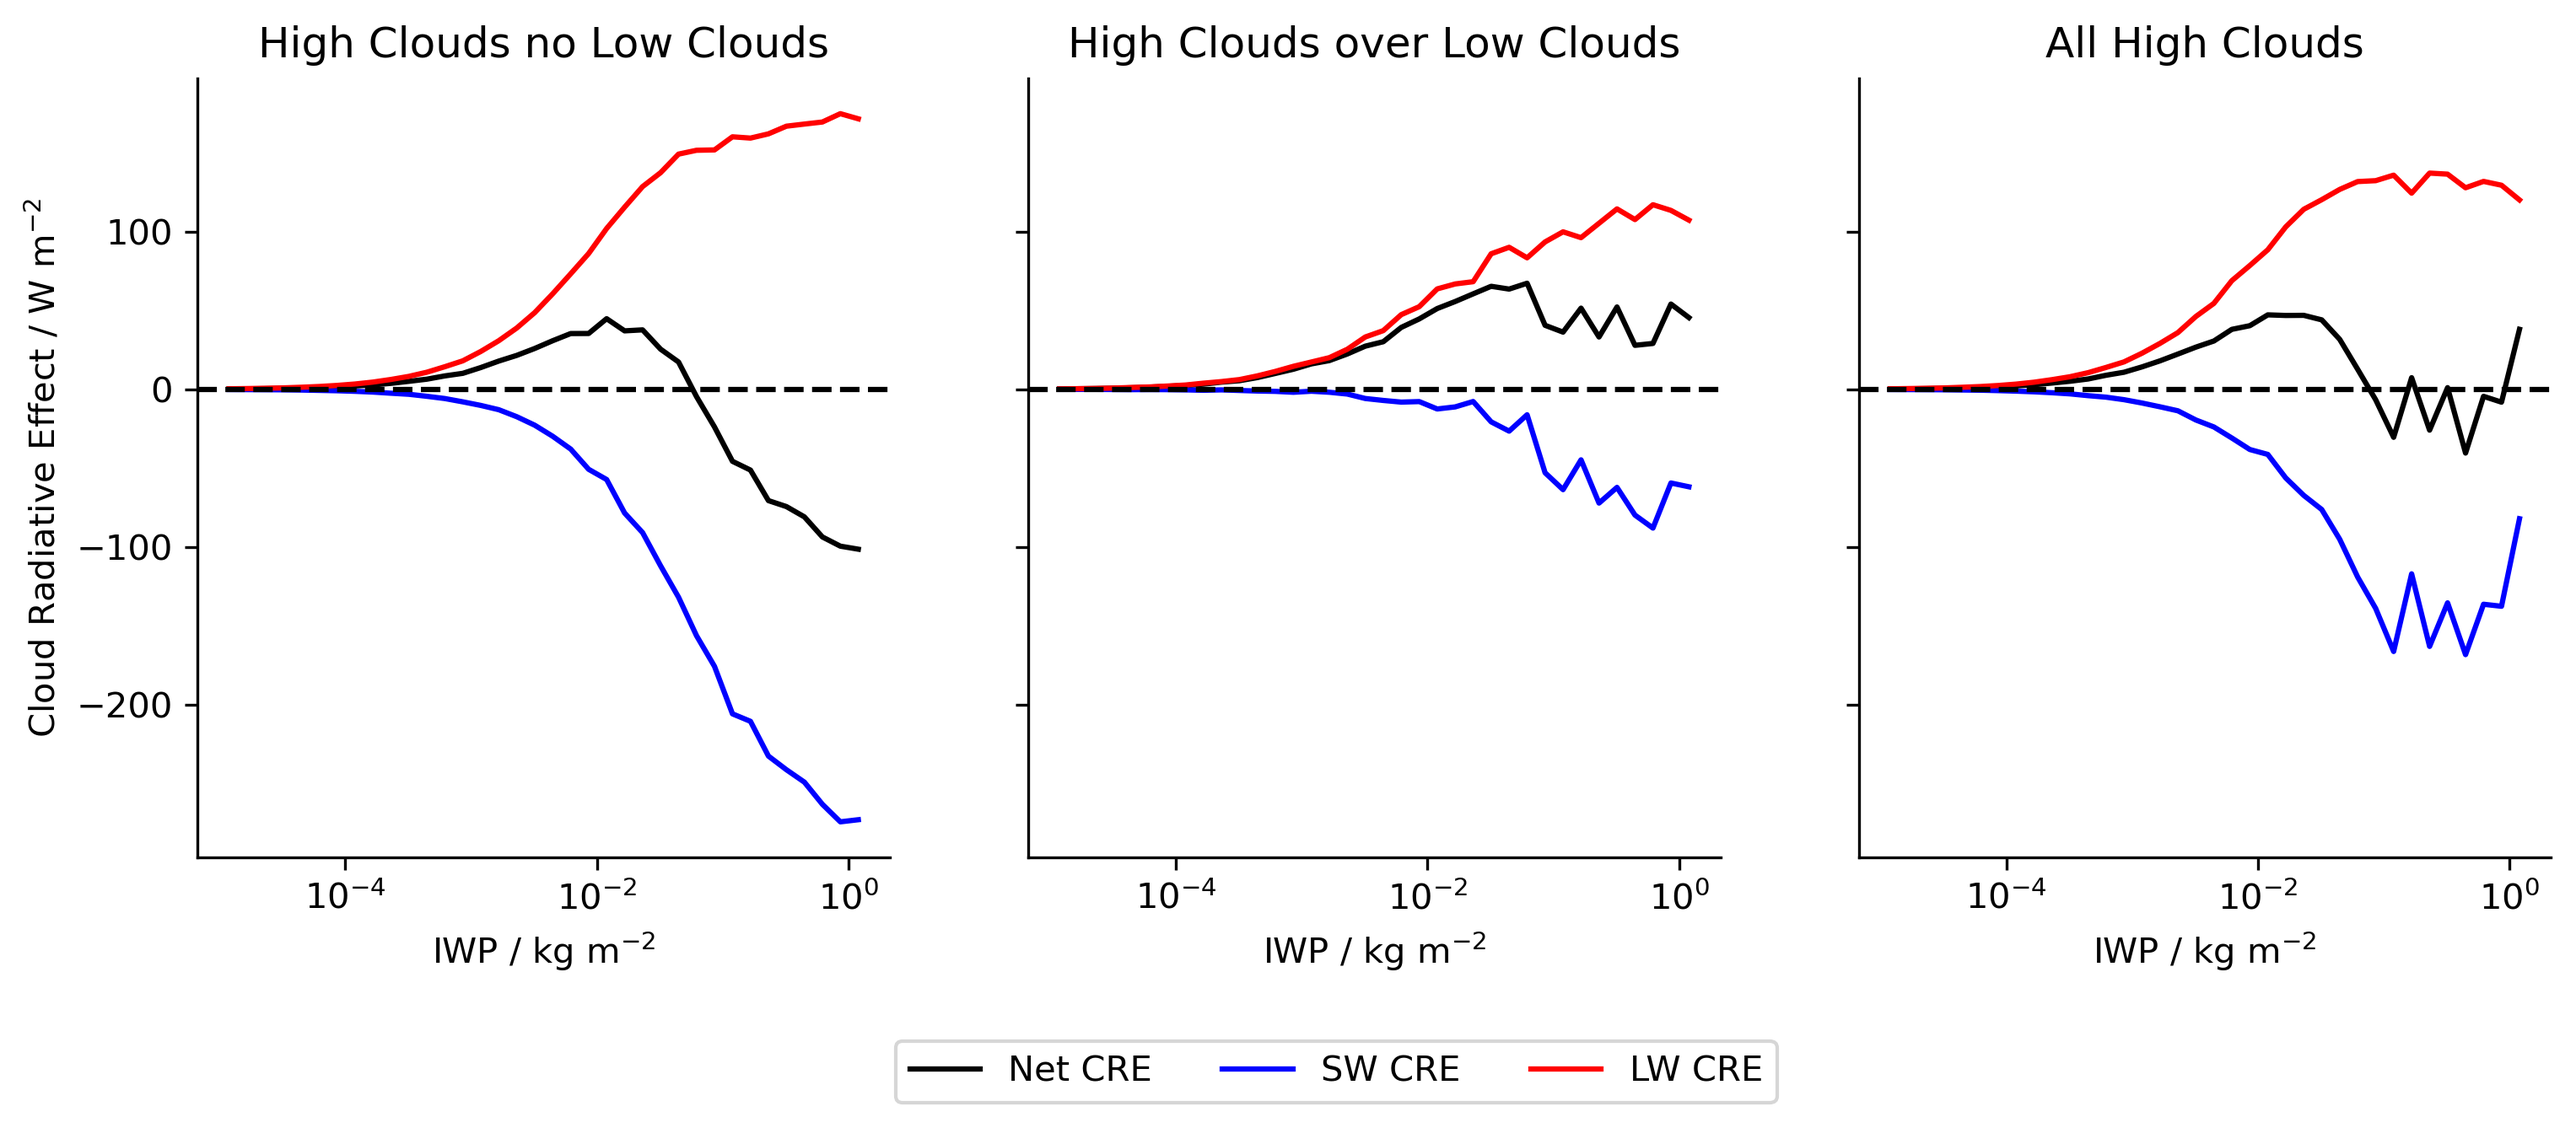
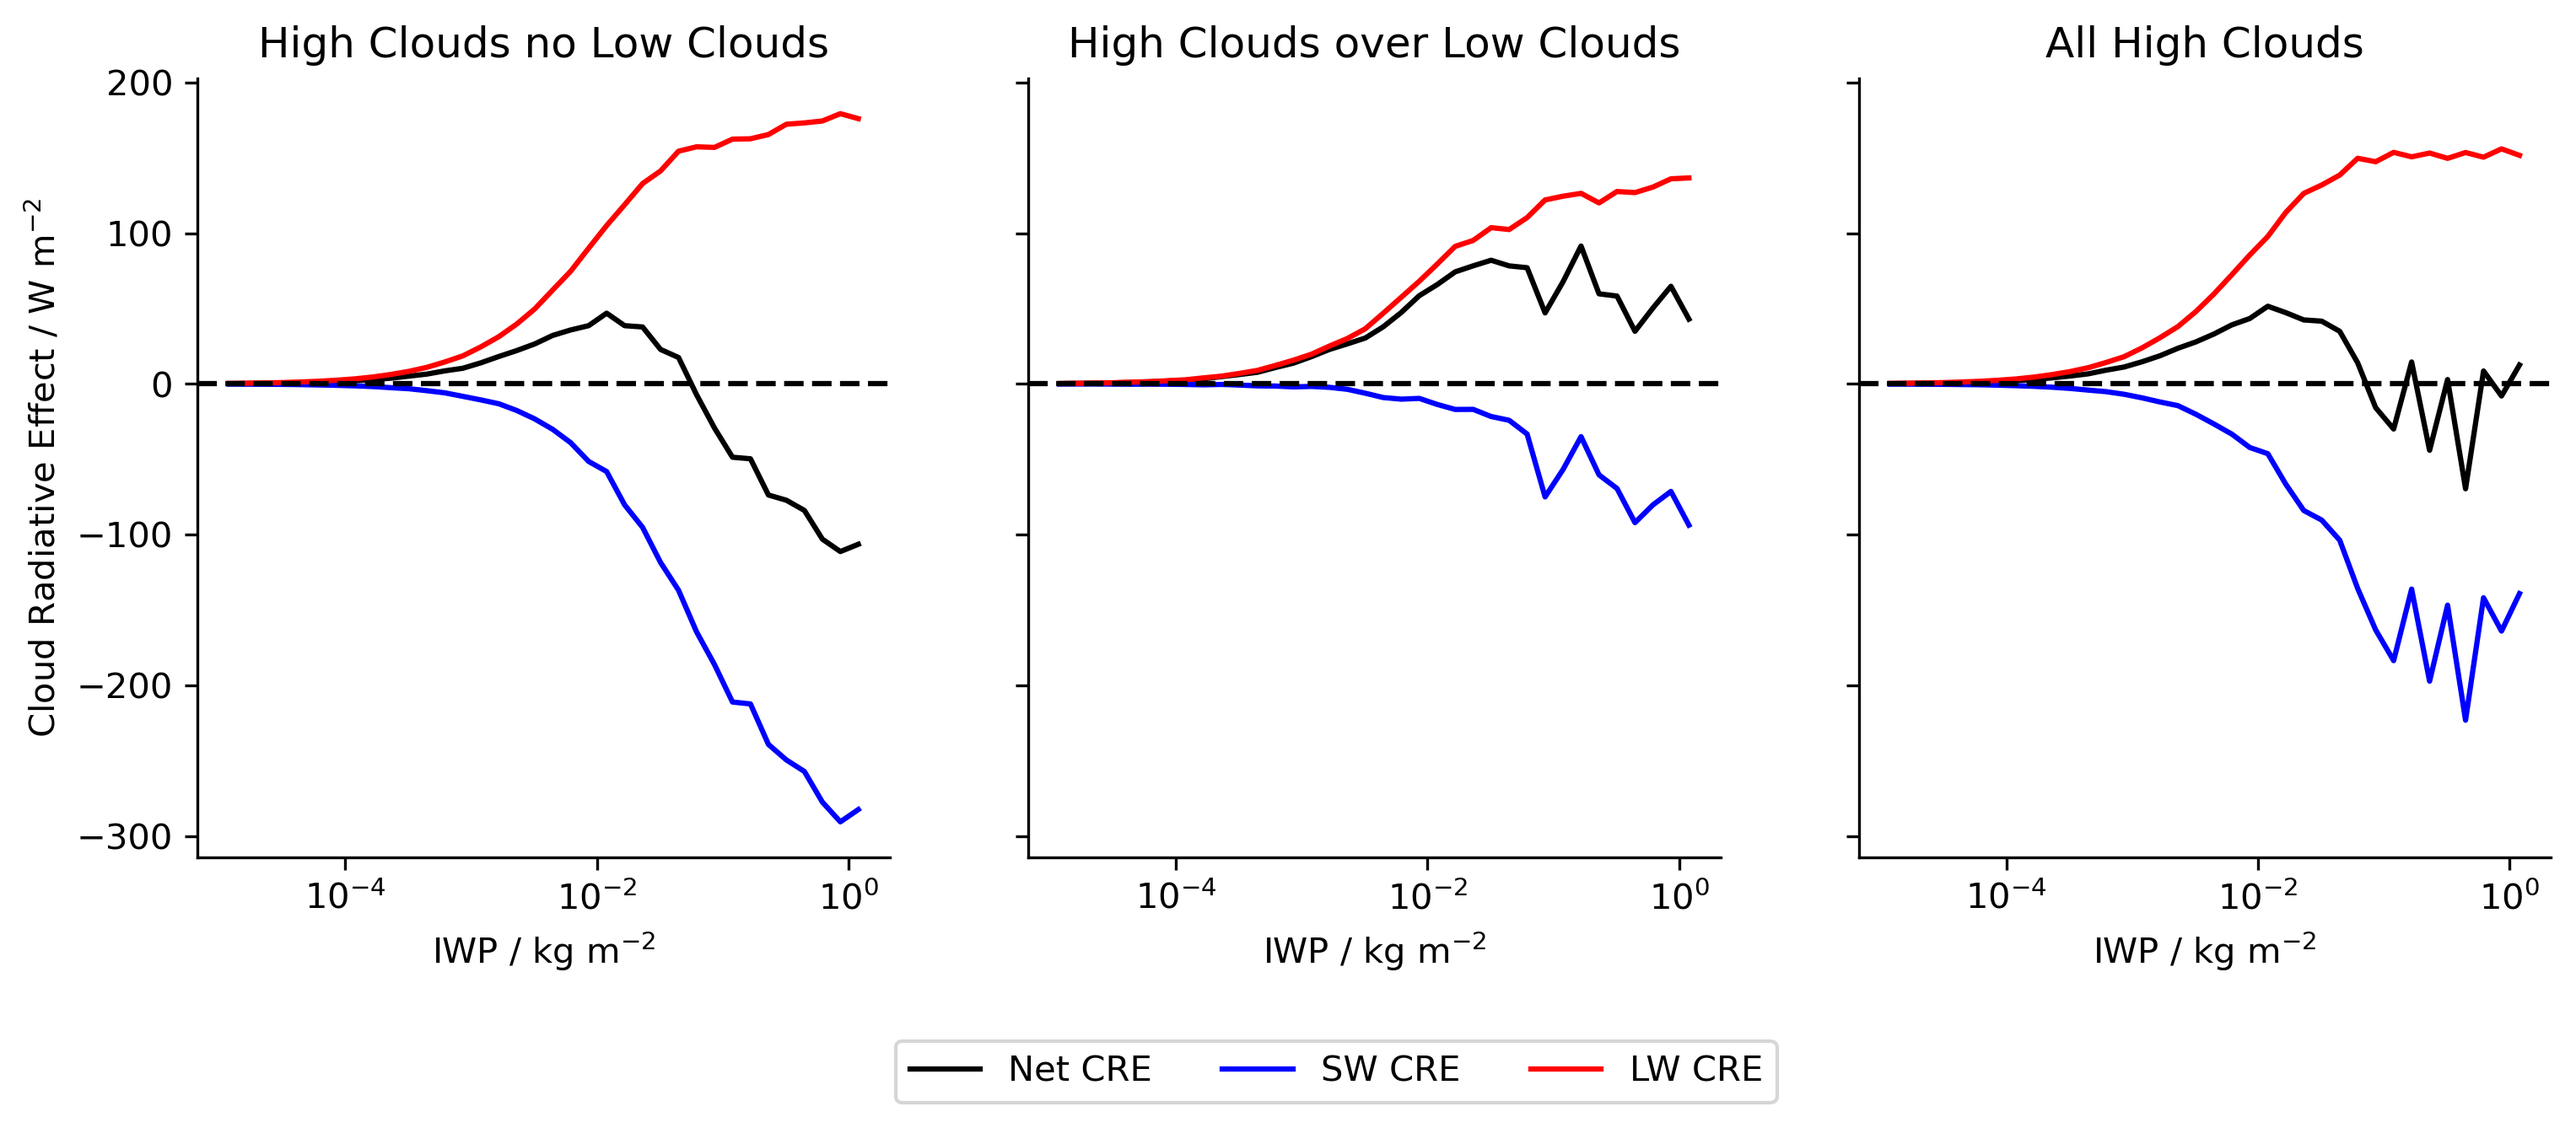
save cre to nc, find weird looking bins

diff --git a/code/process_icon_arts/calculate_cre.py b/code/process_icon_arts/calculate_cre.py
@@ -13,6 +13,7 @@ fluxes_3d = xr.open_dataset(path + run + "fluxes_3d_full.nc")
 # noice fluxes
 run = "fullrange_flux_mid1deg_noice/"
 fluxes_3d_noice = xr.open_dataset(path + run + "fluxes_3d_full.nc")
+lw_vars = xr.open_dataset("data/lw_vars.nc")
 
 # %% calculate cre
 fluxes_toa = fluxes_3d.isel(pressure=-1)
@@ -23,14 +24,11 @@ cre_noice = cre_clearsky.copy()
 cre_clearsky = calc_cre(fluxes_toa, mode='clearsky')
 cre_noice = calc_cre(fluxes_toa, fluxes_toa_noice, mode='noice')
 
-# %% find profiles with high clouds and no low clouds below and above 8 km
-idx_height = atms["IWC"].argmax("pressure")
-mask_height = atms["geometric height"].isel(pressure=idx_height) >= 8e3
-
 # %% calculate cre in bins and interpolate
 IWP_bins = np.logspace(-5, 2, num=50)
 IWP_points = (IWP_bins[1:] + IWP_bins[:-1]) / 2
 lon_bins = np.linspace(-180, 180, num=36)
+lon_points = (lon_bins[1:] + lon_bins[:-1]) / 2
 
 cre_binned = {}
 cre_interpolated = {}
@@ -38,7 +36,7 @@ cre_interpolated_average = {}
 
 # %% all clouds
 cre_binned["all"], cre_interpolated["all"], cre_interpolated_average["all"] = bin_and_average_cre(
-    cre_noice.where(mask_height).sel(lat=slice(-30, 30)),
+    cre_noice.where(lw_vars['mask_valid']).sel(lat=slice(-30, 30)),
     IWP_bins,
     lon_bins,
     atms,
@@ -46,7 +44,7 @@ cre_binned["all"], cre_interpolated["all"], cre_interpolated_average["all"] = bi
 )
 # %% high cloud with no low coud below
 cre_binned["ice_only"], cre_interpolated["ice_only"], cre_interpolated_average["ice_only"] = bin_and_average_cre(
-    cre_noice.where(mask_height).sel(lat=slice(-30, 30)),
+    cre_noice.where(lw_vars['mask_valid']).sel(lat=slice(-30, 30)),
     IWP_bins,
     lon_bins,
     atms,
@@ -54,7 +52,7 @@ cre_binned["ice_only"], cre_interpolated["ice_only"], cre_interpolated_average["
 )
 # %% high cloud over low cloud
 cre_binned["ice_over_lc"], cre_interpolated["ice_over_lc"], cre_interpolated_average["ice_over_lc"] = bin_and_average_cre(
-    cre_noice.where(mask_height).sel(lat=slice(-30, 30)),
+    cre_noice.where(lw_vars['mask_valid']).sel(lat=slice(-30, 30)),
     IWP_bins,
     lon_bins,
     atms,
@@ -204,9 +202,55 @@ fig.legend(handles, labels, loc="lower center", ncol=3, bbox_to_anchor=(0.5, -0.
 fig.savefig("plots/mean_CRE_vs_IWP.png", dpi=300, bbox_inches="tight")
 
 
-# %% save mean CRE
-with open("data/hc_cre.pkl", "wb") as f:
-    pickle.dump([IWP_points, cre_interpolated_average], f)
+# %% build dataset of CREs and save it 
+cre_xr = xr.Dataset()
+cre_xr['net_clearsky'] = cre_clearsky['net']
+cre_xr['net_noice'] = cre_noice['net']
+cre_xr['sw_clearsky'] = cre_clearsky['sw']
+cre_xr['sw_noice'] = cre_noice['sw']
+cre_xr['lw_clearsky'] = cre_clearsky['lw']
+cre_xr['lw_noice'] = cre_noice['lw']
+
+cre_binned_xr = xr.Dataset()
+cre_binned_xr['all_sw'] = xr.DataArray(data=cre_binned['all']['sw'], coords={'IWP': IWP_points, 'lon': lon_points})
+cre_binned_xr['all_lw'] = xr.DataArray(data=cre_binned['all']['lw'], coords={'IWP': IWP_points, 'lon': lon_points})
+cre_binned_xr['all_net'] = xr.DataArray(data=cre_binned['all']['net'], coords={'IWP': IWP_points, 'lon': lon_points})
+cre_binned_xr['ice_only_sw'] = xr.DataArray(data=cre_binned['ice_only']['sw'], coords={'IWP': IWP_points, 'lon': lon_points})
+cre_binned_xr['ice_only_lw'] = xr.DataArray(data=cre_binned['ice_only']['lw'], coords={'IWP': IWP_points, 'lon': lon_points})
+cre_binned_xr['ice_only_net'] = xr.DataArray(data=cre_binned['ice_only']['net'], coords={'IWP': IWP_points, 'lon': lon_points})
+cre_binned_xr['ice_over_lc_sw'] = xr.DataArray(data=cre_binned['ice_over_lc']['sw'], coords={'IWP': IWP_points, 'lon': lon_points})
+cre_binned_xr['ice_over_lc_lw'] = xr.DataArray(data=cre_binned['ice_over_lc']['lw'], coords={'IWP': IWP_points, 'lon': lon_points})
+cre_binned_xr['ice_over_lc_net'] = xr.DataArray(data=cre_binned['ice_over_lc']['net'], coords={'IWP': IWP_points, 'lon': lon_points})
+
+cre_interpolated_xr = xr.Dataset()
+cre_interpolated_xr['all_sw'] = xr.DataArray(data=cre_interpolated['all']['sw'], coords={'IWP': IWP_points, 'lon': lon_points})
+cre_interpolated_xr['all_lw'] = xr.DataArray(data=cre_interpolated['all']['lw'], coords={'IWP': IWP_points, 'lon': lon_points})
+cre_interpolated_xr['all_net'] = xr.DataArray(data=cre_interpolated['all']['net'], coords={'IWP': IWP_points, 'lon': lon_points})
+cre_interpolated_xr['ice_only_sw'] = xr.DataArray(data=cre_interpolated['ice_only']['sw'], coords={'IWP': IWP_points, 'lon': lon_points})
+cre_interpolated_xr['ice_only_lw'] = xr.DataArray(data=cre_interpolated['ice_only']['lw'], coords={'IWP': IWP_points, 'lon': lon_points})
+cre_interpolated_xr['ice_only_net'] = xr.DataArray(data=cre_interpolated['ice_only']['net'], coords={'IWP': IWP_points, 'lon': lon_points})
+cre_interpolated_xr['ice_over_lc_sw'] = xr.DataArray(data=cre_interpolated['ice_over_lc']['sw'], coords={'IWP': IWP_points, 'lon': lon_points})
+cre_interpolated_xr['ice_over_lc_lw'] = xr.DataArray(data=cre_interpolated['ice_over_lc']['lw'], coords={'IWP': IWP_points, 'lon': lon_points})
+cre_interpolated_xr['ice_over_lc_net'] = xr.DataArray(data=cre_interpolated['ice_over_lc']['net'], coords={'IWP': IWP_points, 'lon': lon_points})
+
+cre_interpolated_average_xr = xr.Dataset()
+cre_interpolated_average_xr['all_sw'] = xr.DataArray(data=cre_interpolated_average['all']['sw'], coords={'IWP': IWP_points})
+cre_interpolated_average_xr['all_lw'] = xr.DataArray(data=cre_interpolated_average['all']['lw'], coords={'IWP': IWP_points})
+cre_interpolated_average_xr['all_net'] = xr.DataArray(data=cre_interpolated_average['all']['net'], coords={'IWP': IWP_points})
+cre_interpolated_average_xr['ice_only_sw'] = xr.DataArray(data=cre_interpolated_average['ice_only']['sw'], coords={'IWP': IWP_points})
+cre_interpolated_average_xr['ice_only_lw'] = xr.DataArray(data=cre_interpolated_average['ice_only']['lw'], coords={'IWP': IWP_points})
+cre_interpolated_average_xr['ice_only_net'] = xr.DataArray(data=cre_interpolated_average['ice_only']['net'], coords={'IWP': IWP_points})
+cre_interpolated_average_xr['ice_over_lc_sw'] = xr.DataArray(data=cre_interpolated_average['ice_over_lc']['sw'], coords={'IWP': IWP_points})
+cre_interpolated_average_xr['ice_over_lc_lw'] = xr.DataArray(data=cre_interpolated_average['ice_over_lc']['lw'], coords={'IWP': IWP_points})
+cre_interpolated_average_xr['ice_over_lc_net'] = xr.DataArray(data=cre_interpolated_average['ice_over_lc']['net'], coords={'IWP': IWP_points})
+
+cre_xr.to_netcdf('data/cre.nc')
+cre_binned_xr.to_netcdf('data/cre_binned.nc')
+cre_interpolated_xr.to_netcdf('data/cre_interpolated.nc')
+cre_interpolated_average_xr.to_netcdf('data/cre_interpolated_average.nc')
+
+
+
 
 
 # %%

diff --git a/code/plot/inspect_hc_over_lc.py b/code/plot/inspect_hc_over_lc.py
@@ -1,0 +1,46 @@
+# %% import modules
+import xarray as xr
+import numpy as np
+import matplotlib.pyplot as plt
+
+# %% load data
+path = "/work/bm1183/m301049/icon_arts_processed/"
+run = "fullrange_flux_mid1deg/"
+atms = xr.open_dataset(path + run + "atms_full.nc")
+cre_binned = xr.open_dataset("data/cre_binned.nc")
+cre_interpolated = xr.open_dataset("data/cre_interpolated.nc")
+
+# %% find bins with positive CRE at high SW in 
+strange_mask = (
+    (cre_binned["all_net"] > 0)
+    & (cre_binned["all_net"].IWP > 5e-2)
+    & (-70 < cre_binned["all_net"].lon)
+    & (cre_binned["all_net"].lon < 70)
+)
+
+IWP, lon = np.meshgrid(cre_binned["all_net"].IWP, cre_binned["all_net"].lon)
+x_coords = IWP[strange_mask.T]
+y_coords = lon[strange_mask.T]
+
+# %% plot CRE adn selected bins
+fig, axes = plt.subplots(1, 2, figsize=(9, 5), sharey="row")
+
+cre_binned["all_net"].plot.pcolormesh(ax=axes[0], x="IWP", vmin=-300, vmax=300, cmap="RdBu_r", add_colorbar=False)
+axes[0].scatter(x_coords, y_coords, color='k', marker='x', alpha=0.5)
+axes[0].set_title("All clouds")
+axes[0].set_ylabel("Longitude")
+
+cmap = cre_binned["ice_only_net"].plot.pcolormesh(ax=axes[1], x="IWP", vmin=-300, vmax=300, cmap="RdBu_r", add_colorbar=False)
+axes[1].scatter(x_coords, y_coords, color='k', marker='x', alpha=0.5)
+axes[1].set_title("High clouds no low clouds")
+axes[1].set_ylabel("")
+
+for ax in axes:
+    ax.set_xscale("log")
+    ax.set_xlim(1e-5, 1e2)
+    ax.set_xlabel("IWP / kg m$^{-2}$")
+
+fig.tight_layout()
+fig.colorbar(cmap, ax=axes, label="CRE / W m$^{-2}$", orientation="horizontal", shrink=0.6, pad=0.2)
+
+# %% 

diff --git a/code/process_icon_arts/calculate_emissivity_noice.py b/code/process_icon_arts/calculate_emissivity_noice.py
@@ -51,6 +51,7 @@ rad_hc = -lw_vars["h_cloud_temperature"] ** 4 * sigma
 hc_emissivity = (LW_out_as - LW_out_cs) / (rad_hc - LW_out_cs)
 lw_vars["high_cloud_emissivity"] = hc_emissivity
 lw_vars["rad_correction"] = correction
+lw_vars["mask_valid"] = mask_valid
 
 # %% aveage over IWP bins
 IWP_bins = np.logspace(-5, 1, num=50)
